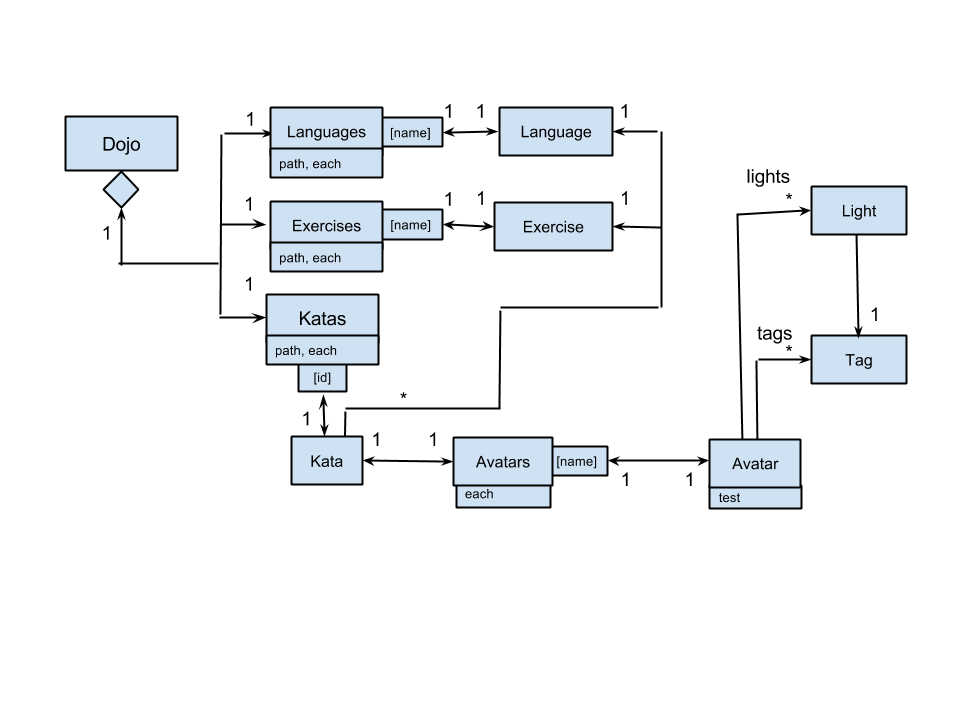
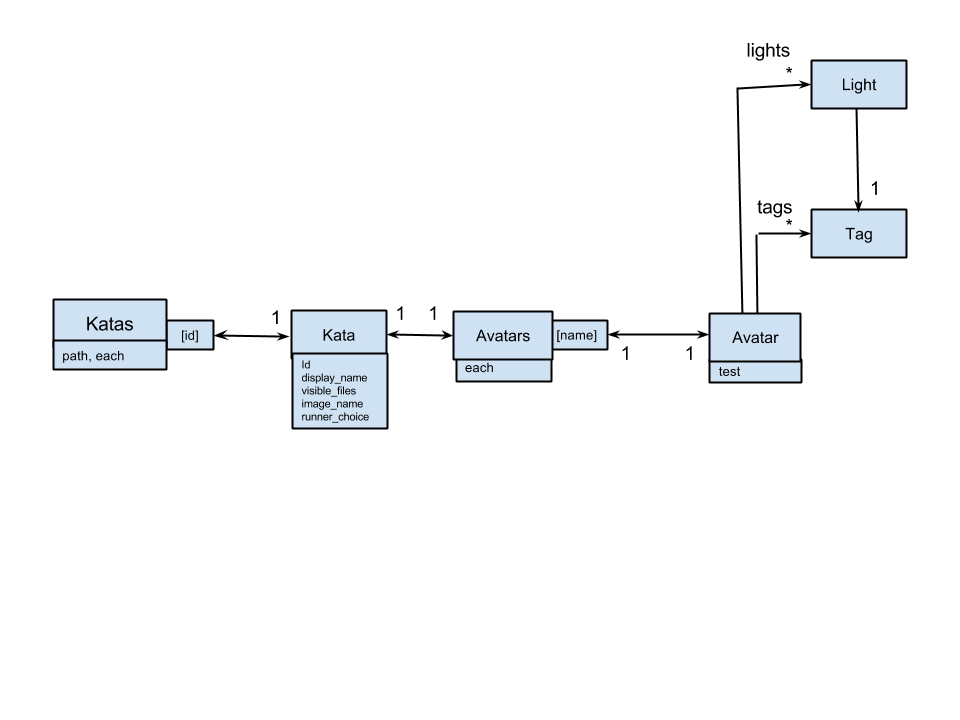
updated domain-model and dependency-graph; added starter to service list

diff --git a/dev/README.md b/dev/README.md
@@ -26,6 +26,7 @@ src/nginx
 src/prometheus
 src/runner_stateful
 src/runner_stateless
+src/starter
 src/storer
 src/web
 src/zipper
